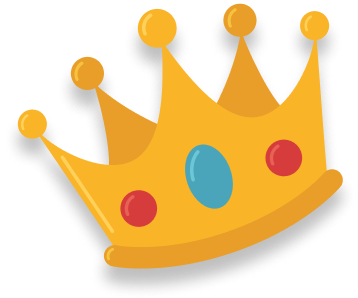
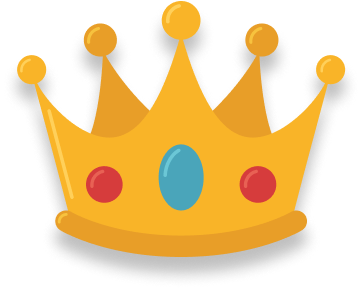
done

diff --git a/src/scss/_achievements.scss b/src/scss/_achievements.scss
@@ -12,35 +12,142 @@
   .scores {
     &__list {
       width: 100%;
-      @include flex-center(column);
       gap: 40px;
+      display: grid;
+      grid-template-columns: 1fr;
 
       @include laptop {
-        flex-direction: row;
+        grid-template-columns: repeat(3, 1fr);
+        grid-template-areas: 'second first third';
+        align-items: center;
         gap: 120px;
       }
     }
     &__item {
       width: 100%;
-      padding-block: 20px;
       border-radius: 8px;
       background-color: $_background;
       @include laptop {
         background-color: transparent;
+        &.first {
+          grid-area: first;
+        }
+        &.second {
+          grid-area: second;
+        }
+        &.third {
+          grid-area: third;
+        }
       }
     }
     &__wrapper {
+      padding-block: 20px;
       @include flex-center(column);
       gap: 20px;
       @include laptop {
         gap: 40px;
       }
+      position: relative;
     }
     &__place {
       color: #39d2d9;
-      font-size: 32px;
       font-weight: 700;
       line-height: normal;
+      &.first {
+        font-size: 36px;
+      }
+      &.second {
+        font-size: 32px;
+      }
+      &.third {
+        font-size: 24px;
+      }
+      @include laptop {
+        font-weight: 900;
+        letter-spacing: 1.92px;
+        &.first {
+          font-size: 64px;
+        }
+        &.second,
+        &.third {
+          font-size: 48px;
+        }
+      }
+    }
+    &__img {
+      position: relative;
+      &::after {
+        content: '';
+        position: absolute;
+        top: 0%;
+        left: 43%;
+        width: 64px;
+        height: 50px;
+        transform: translate(-50%, -50%) rotate(-19.23deg);
+        background-image: image-set(
+          url('/img/achievements/crown.png') 1x,
+          url('/img/achievements/crown-2x.png') 2x
+        );
+        background-size: contain;
+        background-repeat: no-repeat;
+        filter: drop-shadow(0px 4px 4px rgba(0, 0, 0, 0.25));
+        z-index: 10;
+        @include laptop {
+          width: 82px;
+          height: 64px;
+
+          left: 41%;
+        }
+      }
+    }
+    &__photo {
+      filter: drop-shadow(0px 4px 4px rgba(0, 0, 0, 0.25));
+      &.first {
+        width: 160px;
+        height: 160px;
+      }
+      &.second {
+        width: 120px;
+        height: 120px;
+      }
+      &.third {
+        width: 100px;
+        height: 100px;
+      }
+      @include laptop {
+        &.second,
+        &.third {
+          width: 132px;
+          height: 132px;
+        }
+      }
+    }
+    &__name {
+      color: $_pink;
+      letter-spacing: 1.44px;
+      text-transform: uppercase;
+      &.first {
+        font-size: 36px;
+      }
+      &.second {
+        font-size: 32px;
+      }
+      &.third {
+        font-size: 24px;
+      }
+      @include laptop {
+        &.first {
+          font-size: 36 px;
+        }
+        &.second,
+        &.third {
+          font-size: 24px;
+        }
+      }
+    }
+    &__value {
+      color: $_black;
+      letter-spacing: 0.64px;
     }
     &__winner {
       @include flex-center(column);

diff --git a/src/partials/achievements.html b/src/partials/achievements.html
@@ -10,33 +10,35 @@
   </div>
 
   <ul class="scores__list">
-    <li class="scores__item">
+    <li class="scores__item first">
       <div class="scores__wrapper">
-        <span class="scores__place">01</span>
-        <img
-          width="120"
-          height="120"
-          class="scores__photo"
-          srcset="
-            /img/achievements/emma.png    1x,
-            /img/achievements/emma-2x.png 2x
-          "
-          src="/img/achievements/emma.png"
-          alt="winner Emma"
-        />
+        <span class="scores__place first">01</span>
+        <div class="scores__img">
+          <img
+            width="120"
+            height="120"
+            class="scores__photo first"
+            srcset="
+              /img/achievements/emma.png    1x,
+              /img/achievements/emma-2x.png 2x
+            "
+            src="/img/achievements/emma.png"
+            alt="winner Emma"
+          />
+        </div>
         <div class="scores__winner">
-          <h3 class="scores__name">emma</h3>
-          <span scores__value>18644</span>
+          <h3 class="scores__name first">emma</h3>
+          <span class="scores__value">18644</span>
         </div>
       </div>
     </li>
-    <li class="scores__item">
+    <li class="scores__item second">
       <div class="scores__wrapper">
-        <span class="scores__place">02</span>
+        <span class="scores__place second">02</span>
         <img
           width="120"
           height="120"
-          class="scores__photo"
+          class="scores__photo second"
           srcset="
             /img/achievements/john.png    1x,
             /img/achievements/john-2x.png 2x
@@ -45,18 +47,18 @@
           alt="winner John"
         />
         <div class="scores__winner">
-          <h3 class="scores__name">John</h3>
-          <span scores__value>15002</span>
+          <h3 class="scores__name second">John</h3>
+          <span class="scores__value">15002</span>
         </div>
       </div>
     </li>
-    <li class="scores__item">
+    <li class="scores__item third">
       <div class="scores__wrapper">
-        <span class="scores__place">03</span>
+        <span class="scores__place third">03</span>
         <img
           width="120"
           height="120"
-          class="scores__photo"
+          class="scores__photo third"
           srcset="
             /img/achievements/claire.png    1x,
             /img/achievements/claire-2x.png 2x
@@ -65,8 +67,8 @@
           alt="winner Claire"
         />
         <div class="scores__winner">
-          <h3 class="scores__name">Claire</h3>
-          <span scores__value>14923</span>
+          <h3 class="scores__name third">Claire</h3>
+          <span class="scores__value">14923</span>
         </div>
       </div>
     </li>
